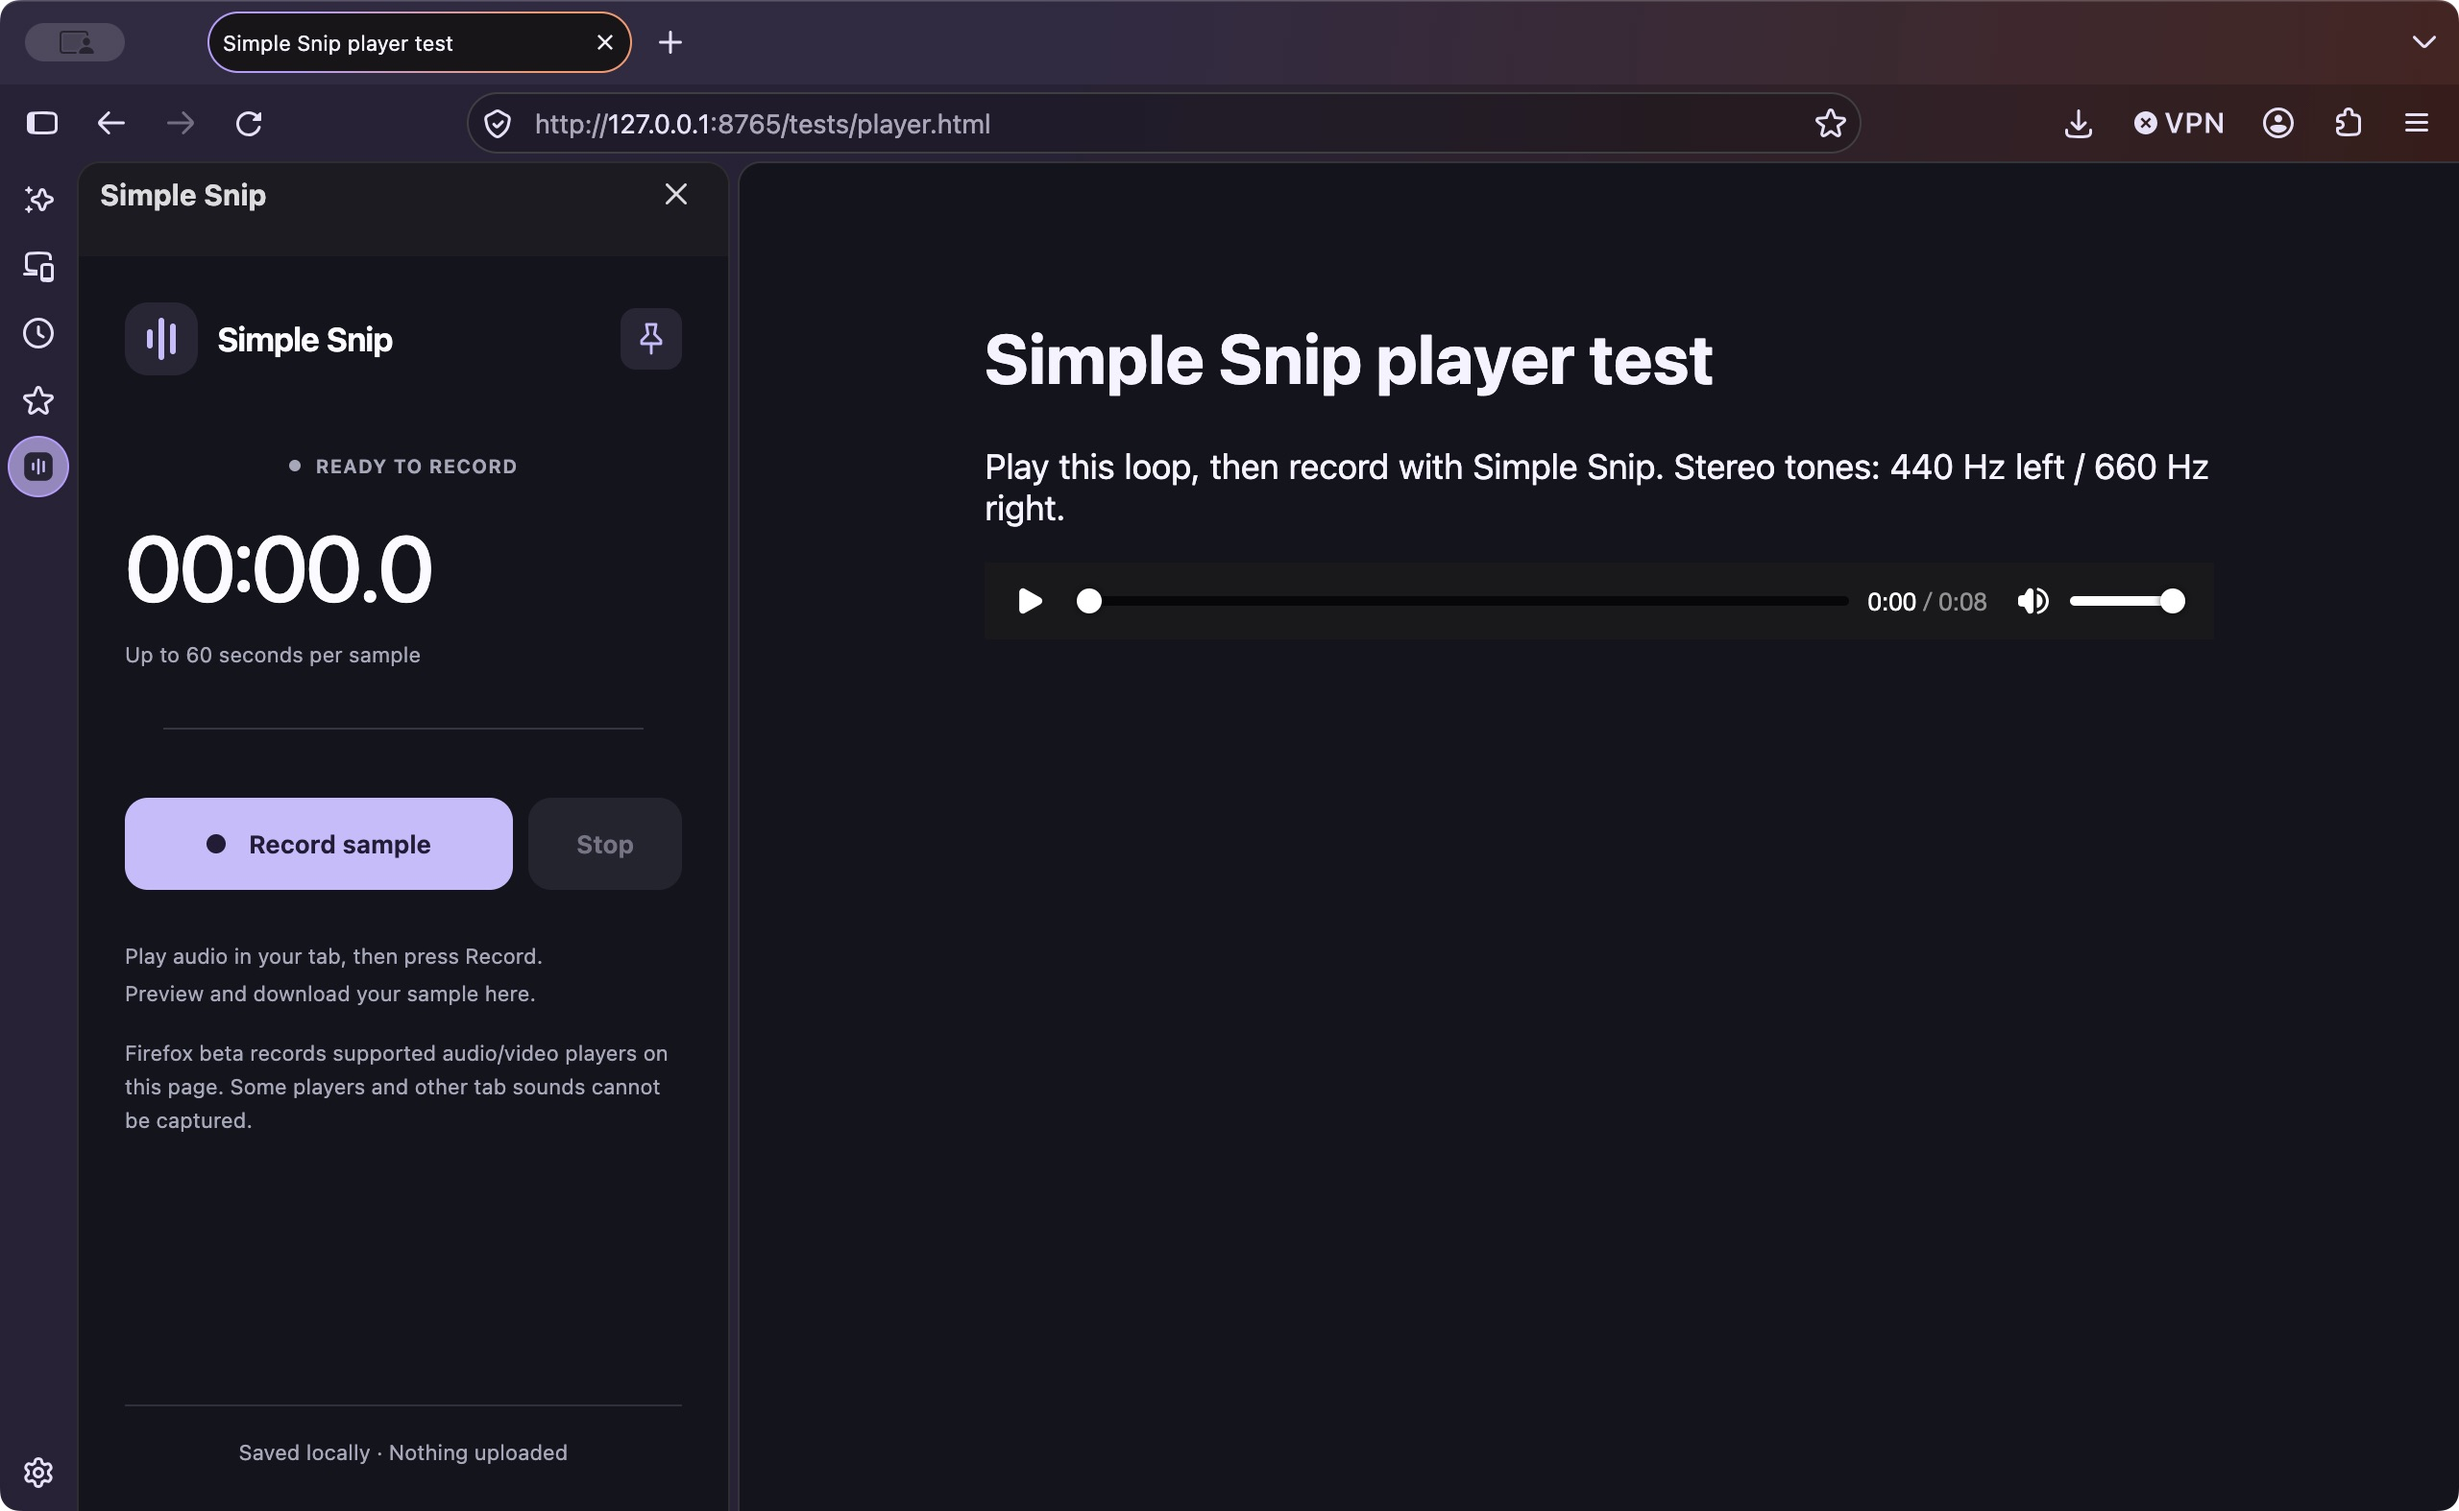
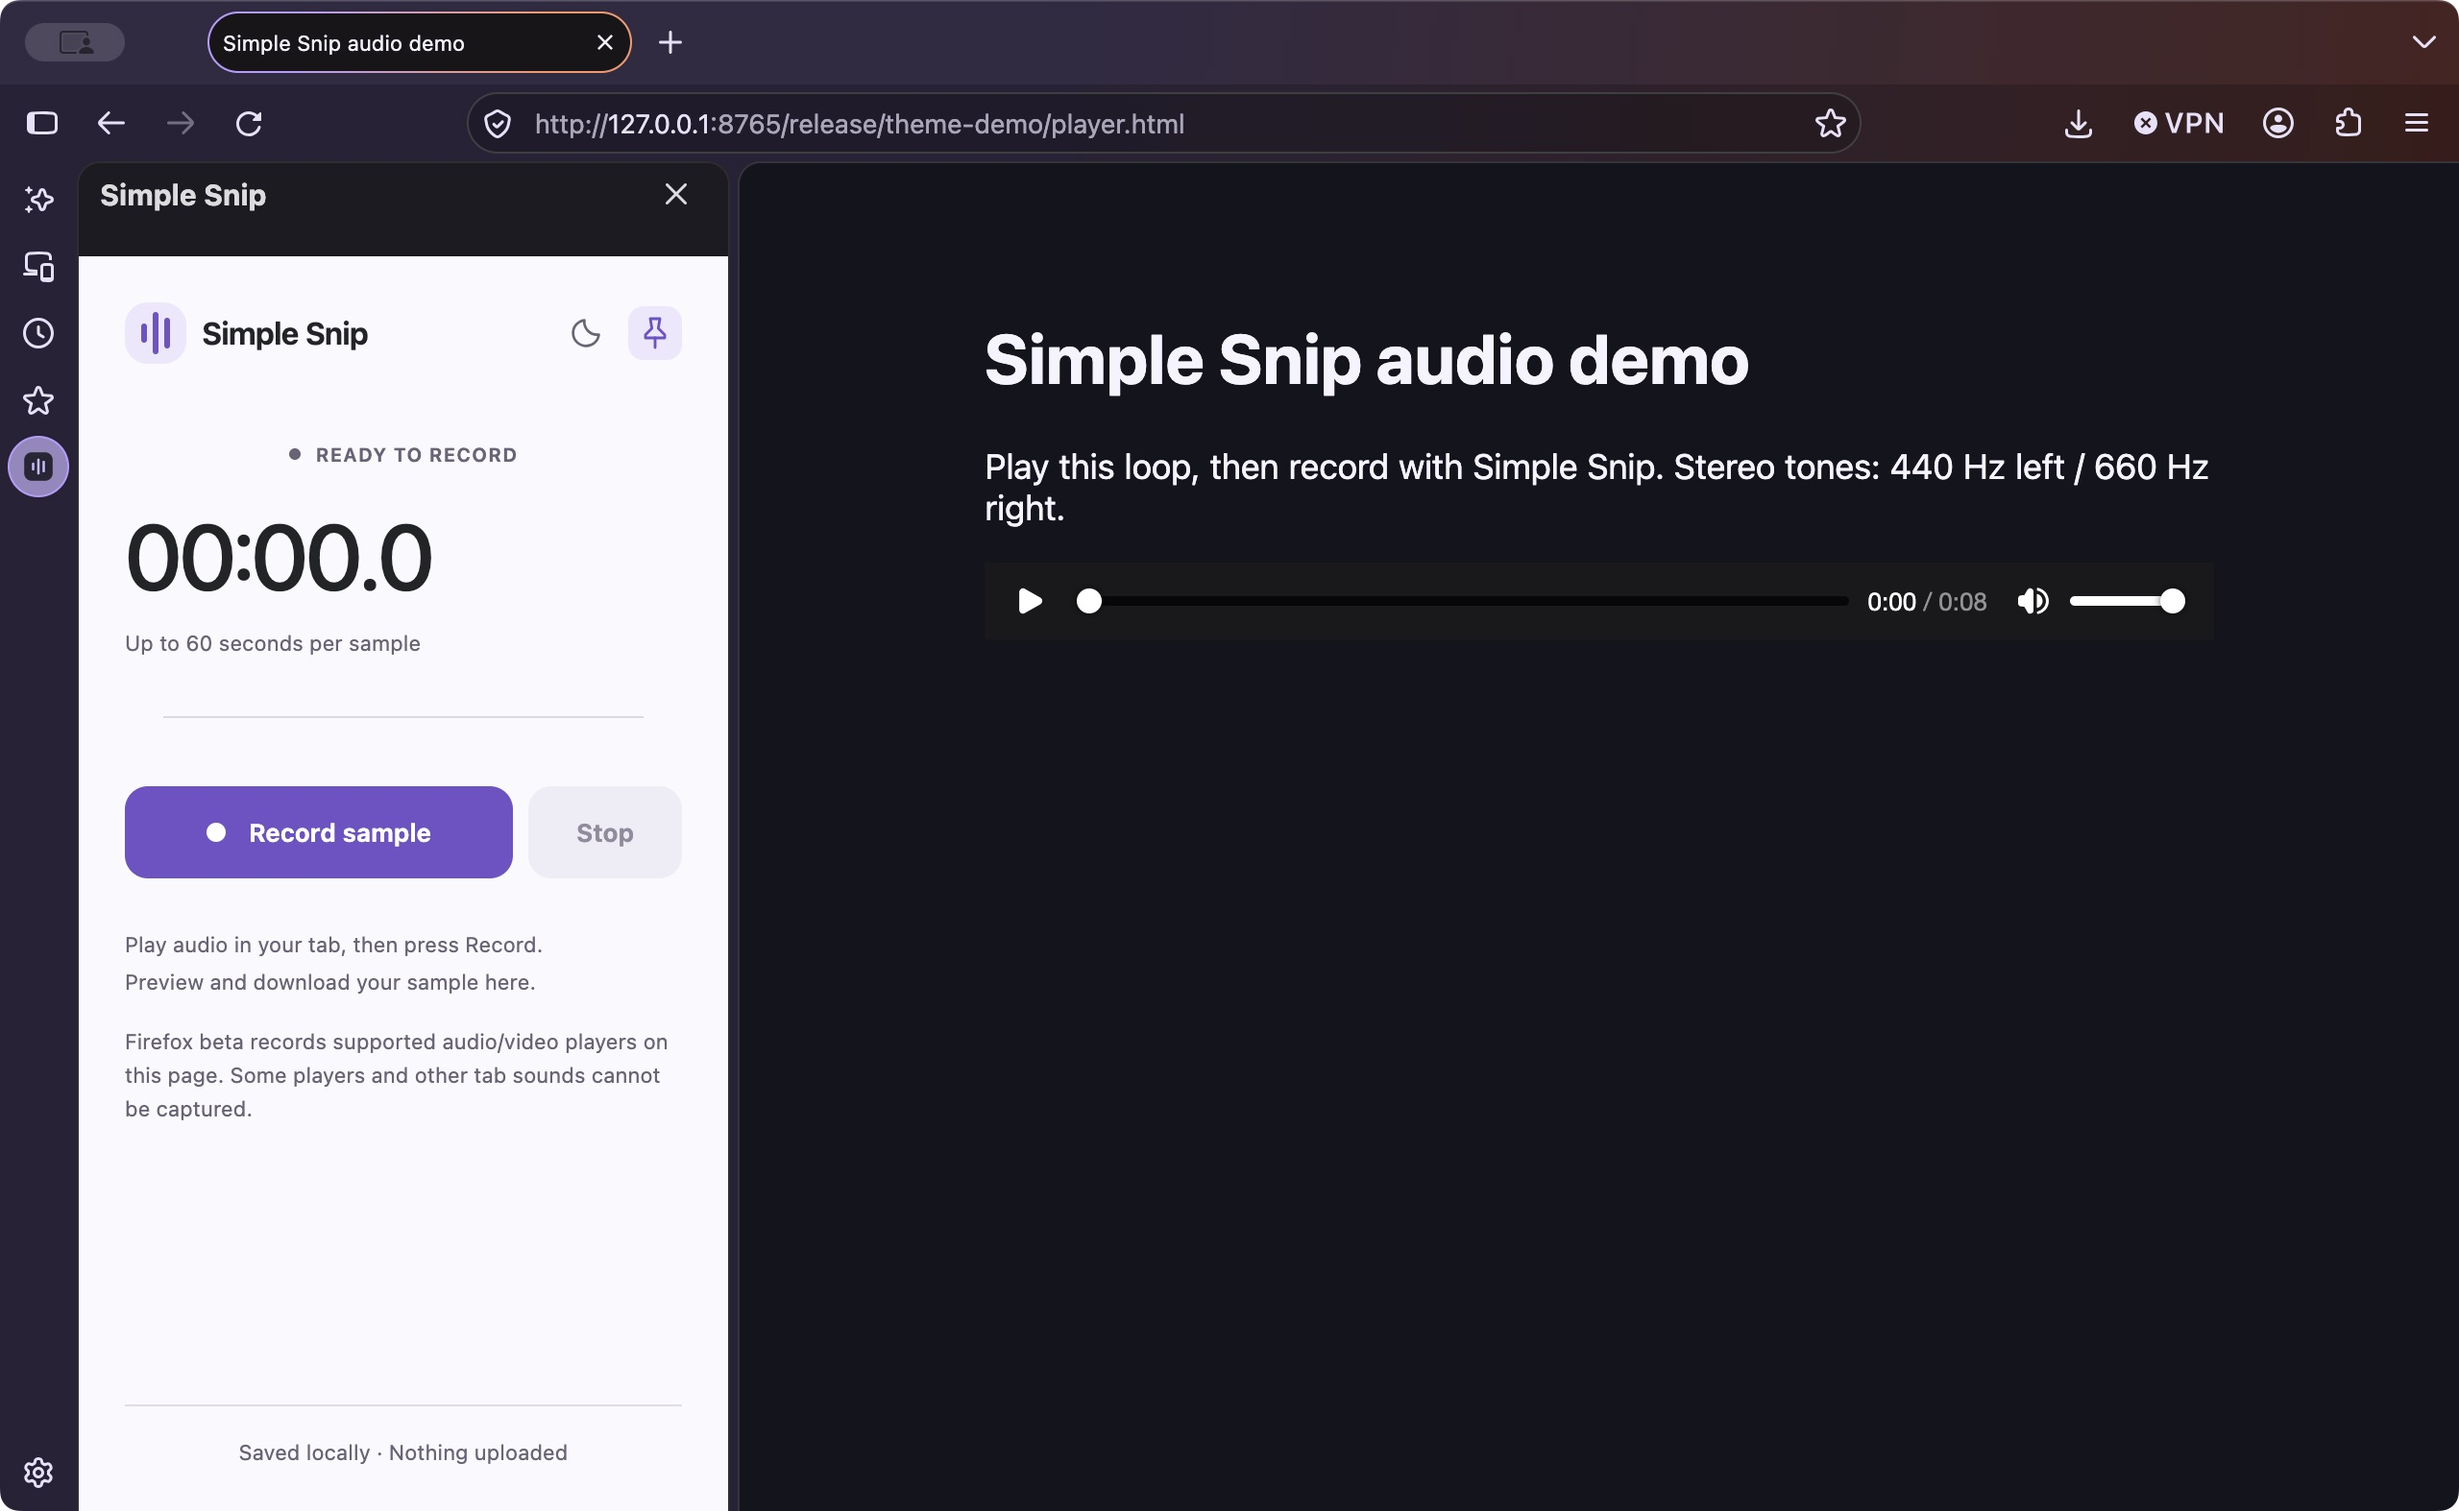
Add a light theme with a remembered light and dark switch

Changed region(s): [[0.0312, 0.1557, 0.3125, 1.0], [0.5625, 0.2179, 0.7188, 0.2802], [0.3438, 0.0623, 0.4688, 0.0934]]

diff --git a/extension/ui/popup.css b/extension/ui/popup.css
@@ -1,15 +1,45 @@
 :root {
-  color-scheme: dark;
+  color-scheme: light;
   font-family: -apple-system, BlinkMacSystemFont, "Segoe UI", sans-serif;
+  --bg: #faf9fe;
+  --surface: #f0edf6;
+  --border: #dfdbe9;
+  --text: #252139;
+  --muted: #696477;
+  --accent: #7252c9;
+  --accent-text: #ffffff;
+  --mark-bg: #eee7fc;
+  --secondary: #efecf4;
+  --secondary-accent: #6545ad;
+  --disabled: #918b9e;
+  --red: #c93658;
+  --red-text: #ffffff;
+  --success: #267954;
+  --error: #b52949;
+  --divider: #ddd8e8;
+  --hover-brightness: 0.96;
+  color: var(--text);
+  background: var(--bg);
+}
+:root[data-theme="dark"] {
+  color-scheme: dark;
   --bg: #14141c;
   --surface: #20202b;
   --border: #30303e;
   --text: #f5f3ff;
   --muted: #a6a7ba;
   --accent: #c9bbff;
+  --accent-text: #231c38;
+  --mark-bg: #292536;
+  --secondary: #24242f;
+  --secondary-accent: #e5ddff;
+  --disabled: #777486;
   --red: #ff8599;
-  color: var(--text);
-  background: var(--bg);
+  --red-text: #351521;
+  --success: #a9e0c6;
+  --error: #ff9da6;
+  --divider: #353442;
+  --hover-brightness: 1.1;
 }
 * {
   box-sizing: border-box;
@@ -36,7 +66,7 @@ header {
   width: 38px;
   height: 38px;
   border-radius: 12px;
-  background: #292536;
+  background: var(--mark-bg);
 }
 .mark i {
   width: 3px;
@@ -87,7 +117,7 @@ body[data-state="recording"] .source {
   color: var(--red);
 }
 body[data-state="ready"] .source {
-  color: #a9e0c6;
+  color: var(--success);
 }
 .timer {
   font-size: 48px;
@@ -114,7 +144,7 @@ body[data-state="ready"] .source {
   content: "";
   height: 1px;
   width: 100%;
-  background: #353442;
+  background: var(--divider);
 }
 .meter span {
   display: none;
@@ -163,22 +193,22 @@ button,
 #record {
   flex: 1;
   background: var(--accent);
-  color: #231c38;
+  color: var(--accent-text);
 }
 #stop {
   width: 100px;
 }
 .secondary {
-  background: #24242f;
+  background: var(--secondary);
   color: var(--text);
 }
 button:disabled {
-  color: #777486;
+  color: var(--disabled);
   cursor: default;
 }
 #record:disabled {
-  background: #24242f;
-  color: #777486;
+  background: var(--secondary);
+  color: var(--disabled);
 }
 #stop:disabled .stop-icon {
   display: none;
@@ -200,7 +230,7 @@ body[data-state="recording"] #stop {
   flex: 1;
   width: auto;
   background: var(--red);
-  color: #351521;
+  color: var(--red-text);
 }
 body[data-state="recording"] #record {
   flex: none;
@@ -242,7 +272,7 @@ body:has(#clip:not([hidden])) .record-help {
   gap: 10px;
   padding: 10px 12px;
   border-radius: 10px;
-  background: #24242f;
+  background: var(--secondary);
   height: 42px;
   margin-bottom: 14px;
 }
@@ -253,7 +283,7 @@ body:has(#clip:not([hidden])) .record-help {
   width: 22px;
   height: 22px;
   background: var(--accent);
-  color: #231c38;
+  color: var(--accent-text);
   font-size: 10px;
   padding: 0;
   flex-shrink: 0;
@@ -280,12 +310,12 @@ body:has(#clip:not([hidden])) .record-help {
   flex: 1;
   min-height: 46px;
   background: var(--accent);
-  color: #231c38;
+  color: var(--accent-text);
   font-size: 12px;
 }
 .download.secondary {
-  background: #292536;
-  color: #e5ddff;
+  background: var(--mark-bg);
+  color: var(--secondary-accent);
 }
 .download[aria-disabled="true"] {
   opacity: 0.5;
@@ -310,12 +340,12 @@ body:has(#clip:not([hidden])) .record-help {
   color: var(--accent);
 }
 #clear {
-  color: #b7b4c7;
+  color: var(--muted);
   font-weight: 400;
 }
 #error,
 #mp3-error {
-  color: #ff9da6;
+  color: var(--error);
   font-size: 12px;
   line-height: 1.6;
 }
@@ -338,14 +368,13 @@ input:focus-visible {
 }
 button:not(:disabled):hover,
 .download:not([aria-disabled="true"]):hover {
-  filter: brightness(1.1);
+  filter: brightness(var(--hover-brightness));
 }
 [hidden] {
   display: none !important;
 }
 
-.pin-button {
-  margin-left: auto;
+.header-button {
   width: 32px;
   height: 32px;
   display: grid;
@@ -354,15 +383,26 @@ button:not(:disabled):hover,
   background: transparent;
   color: var(--muted);
   border-radius: 8px;
+  flex-shrink: 0;
 }
-.pin-button:hover {
+.header-button:hover {
   background: var(--surface);
   color: var(--accent);
 }
 .pin-button[aria-pressed="true"] {
   color: var(--accent);
-  background: #292536;
+  background: var(--mark-bg);
   opacity: 1;
+}
+.theme-button {
+  margin-left: auto;
+}
+.theme-sun,
+:root[data-theme="dark"] .theme-moon {
+  display: none;
+}
+:root[data-theme="dark"] .theme-sun {
+  display: block;
 }
 body.pinned-panel {
   width: 100%;
@@ -370,10 +410,19 @@ body.pinned-panel {
   min-height: 100vh;
 }
 .pinned-panel header {
-  gap: 10px;
+  gap: 8px;
 }
 .pinned-panel h1 {
-  font-size: 17px;
+  font-size: 16px;
+}
+.pinned-panel .mark {
+  width: 32px;
+  height: 32px;
+  flex-shrink: 0;
+}
+.pinned-panel .header-button {
+  width: 28px;
+  height: 28px;
 }
 .pinned-panel .actions {
   gap: 8px;

diff --git a/extension/ui/popup.html b/extension/ui/popup.html
@@ -4,6 +4,7 @@
     <meta charset="utf-8" />
     <meta name="viewport" content="width=device-width, initial-scale=1" />
     <title>Simple Snip</title>
+    <script src="theme.js"></script>
     <link rel="stylesheet" href="popup.css" />
   </head>
   <body data-state="idle">
@@ -11,8 +12,43 @@
       <span class="mark" aria-hidden="true"><i></i><i></i><i></i></span>
       <div><h1>Simple Snip</h1></div>
       <button
+        id="theme"
+        class="header-button theme-button"
+        title="Switch to dark theme"
+        aria-label="Switch to dark theme"
+      >
+        <svg
+          class="theme-moon"
+          viewBox="0 0 24 24"
+          width="19"
+          height="19"
+          fill="none"
+          stroke="currentColor"
+          stroke-width="1.7"
+          stroke-linecap="round"
+          stroke-linejoin="round"
+          aria-hidden="true"
+        >
+          <path d="M20.5 13A8.5 8.5 0 0 1 11 3.5 8.5 8.5 0 1 0 20.5 13Z" />
+        </svg>
+        <svg
+          class="theme-sun"
+          viewBox="0 0 24 24"
+          width="19"
+          height="19"
+          fill="none"
+          stroke="currentColor"
+          stroke-width="1.7"
+          stroke-linecap="round"
+          aria-hidden="true"
+        >
+          <circle cx="12" cy="12" r="4" />
+          <path d="M12 2v2m0 16v2M2 12h2m16 0h2M5 5l1.5 1.5m11 11L19 19M5 19l1.5-1.5m11-11L19 5" />
+        </svg>
+      </button>
+      <button
         id="pin"
-        class="pin-button"
+        class="header-button pin-button"
         title="Pin recorder to side panel"
         aria-label="Pin recorder to side panel"
         aria-pressed="false"

diff --git a/extension/ui/theme.js b/extension/ui/theme.js
@@ -1,0 +1,29 @@
+(() => {
+  const key = "simple-snip-theme";
+  function apply(theme) {
+    document.documentElement.dataset.theme = theme === "dark" ? "dark" : "light";
+    const button = document.getElementById("theme");
+    if (!button) return;
+    const label = `Switch to ${theme === "dark" ? "light" : "dark"} theme`;
+    button.title = label;
+    button.setAttribute("aria-label", label);
+  }
+  let theme = "light";
+  try {
+    theme = localStorage.getItem(key) || theme;
+  } catch {}
+  apply(theme);
+  document.addEventListener("DOMContentLoaded", () => {
+    apply(document.documentElement.dataset.theme);
+    document.getElementById("theme").addEventListener("click", () => {
+      const next = document.documentElement.dataset.theme === "light" ? "dark" : "light";
+      apply(next);
+      try {
+        localStorage.setItem(key, next);
+      } catch {}
+    });
+  });
+  window.addEventListener("storage", (event) => {
+    if (event.key === key || event.key === null) apply(event.newValue);
+  });
+})();

diff --git a/README.md b/README.md
@@ -4,6 +4,8 @@ A free browser extension that records a short sound from your selected tab. Pres
 
 The pin icon keeps the recorder open in the browser’s side panel while you use the webpage. **Discard** clears your sample. Audio stays on your device.
 
+Light is the default theme. Use the sun/moon button beside the pin icon to switch between light and dark; your choice is remembered for the popup and side panel.
+
 ## Screenshots
 
 The recorder pinned beside a webpage in Firefox:
